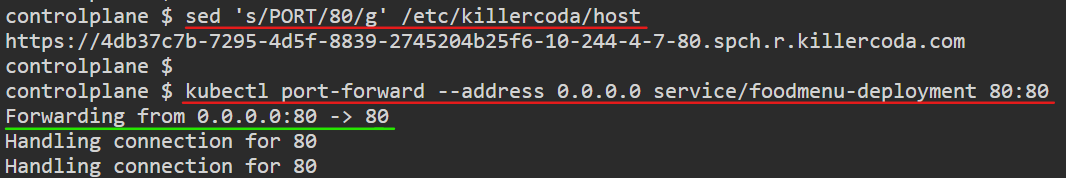
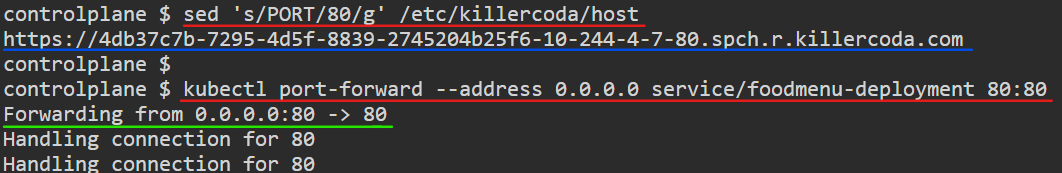
updated with emojis

Changed region(s): [[0.0, 0.4624, 0.9944, 1.0], [0.0, 0.0289, 0.9322, 0.4335]]

diff --git a/index.html b/index.html
@@ -72,14 +72,15 @@
         <img src="opentechx-logo.png" alt="Logo" style="height: 50px;">
 	</header>
 	
-    <h1>Kubernetes 101</h1>
+    <h1>Kubernetes 101 ☸</h1>
     <div>
-		<h2>About the Hands-on Lab</h2>
+		<br>
+		<h2>About the Hands-on Lab 🧑💻</h2>
 	    <p>In this hands-on lab workshop, we are going to deploy a static website into Kubernetes cluster.</p>
 		<p>The application is built using a HTML file and images. These files are packaged into a Docker image.</p>
-		<p>The Docker image is stored on the public <a href="https://hub.docker.com/repository/docker/ckr123/food-menu-website/general">Docker Hub registry</a></p>
+		<p>The Docker image is stored on the public <a href="https://hub.docker.com/repository/docker/ckr123/food-menu-website/general">Docker Hub registry</a> 🐋</p>
 		<br>
-		<p>Using kubectl commands, we will create below mentioned resources (marked in green square).</p>
+		<p>Using kubectl commands, we will create resources as per below image (marked in green square). 🟩</p>
 		<br>
 		
 		<div class="image-item">
@@ -90,10 +91,10 @@
 		<p><b>Open the terminal using below url</b></p>
 		<a href="https://killercoda.com/playgrounds/scenario/kubernetes">💻 Kubernetes Terminal</a></p>
 		<p>This is a playground terminal by Killercoda. We can use this for one hour in free account. Login to the terminal using your <b>Gmail account.</b></p>
-		<p><b>Note:</b> Please use only the right side terminal window.</p>
+		<p><b>⚠ Note:</b> Please use only the right side terminal window.</p>
 		<br>
 		
-		<h2>1. Create a Deployment</h2>
+		<h2>1. Create a Deployment 🚀</h2>
 		<p>Deployment as an instance of an application with it’s associated configuration.</p>
 		<p>The Deployment resource provides a way to describe, create, and update instances of your applications.</p>
 		<p>In simple terms, we can think of it as a blueprint of the application containers.</p>
@@ -102,7 +103,8 @@
 		<p>The syntax of kubectl command to create deployment is as below:</p>
 		<p><b>kubectl create deployment DEPLOYMENT_NAME --image=IMAGE_NAME:TAG --port=CONTAINER_PORT</b></p>
 		
-		<p>This command creates a deployment. The deployment will create a replicaset which in-turn will create the containers. The specified docker image will be pulled from the docker hub registry and container gets created using the docker image. The container gets exposed on the specified port.</p>
+		<p>This command creates a deployment. The deployment will create a replicaset which in-turn will create the containers.</p>
+		<p>The specified docker image will be pulled from the docker hub registry and container gets created using the docker image. The container gets exposed on the specified port.</p>
 		<br>
 		
         <p>Copy the below command by clicking on the copy icon.</p>
@@ -127,7 +129,7 @@
     </div>
 	<br>
 
-	<h2>2. Create a Service</h2>
+	<h2>2. Create a Service ⚙</h2>
 	<div>
 		<p>"Service" is an abstract way to expose an application over the network. These applications will be running on a set of Pods.</p>
 		<p> It provides a stable endpoint (IP address and port) to interact with the application, abstracting away the complexity of the dynamic changes in the underlying infrastructure.</p>
@@ -157,7 +159,7 @@
 	<br>
 
 
-	<h2>3. Access the application</h2>
+	<h2>3. Access the application 🌐</h2>
 	<div>
 		<p>To access the application we need the IP address of the terminal node.</p>
 
@@ -169,19 +171,20 @@
 		
 		<p>Let's use the method of port-forward to access the application.</p>
 		
-		<p>The <b>kubectl port-forward</b> command is used in Kubernetes to create a network tunnel between your local machine and a pod running in the Kubernetes cluster. This command allows you to access resources inside the cluster as if they were running locally on your machine.</p>
+		<p>The <b>kubectl port-forward</b> command is used in Kubernetes to create a network tunnel between your local machine and a pod running in the Kubernetes cluster.</p>
+		<p>This command allows you to access resources inside the cluster as if they were running locally on your machine.</p>
+		<br>
 
 		<p>The syntax of the port-forward command is as below:</p>
 		<p><b>kubectl port-forward --address 0.0.0.0 service/SERVICE_NAME LOCAL_PORT:SERVICE_PORT</b></p>
-		
-		<p>This command creates a service. The service is mapped to the deployment. This way it knows which are the pods running as part of the deployment.</p>
 		
 		<p><br>Execute below command to port-forward the service.</p>
 		<code id="command7">kubectl port-forward --address 0.0.0.0 service/foodmenu-deployment 80:80</code>
         <span class="copy-icon" onclick="copyToClipboard('command7')">📋</span>
 		<br>
 		
-		<p>Now, open the url in the browser to see the application webpage.</p>
+		<p>Now, click on the url in the browser to see the application webpage.</p>
+		<p>⚠ The url will be like the one highlighted with blue line. Reference as shown in the below image.</p>
 
 		<p><br><u>You should see output as below:</u></p>
     </div>
@@ -192,7 +195,7 @@
 	<br>
 
 
-	<h2>4. Scale up the application</h2>
+	<h2>4. Scale up the application 📈</h2>
 	<div>
 		<p>By default, the deployment creates one replica of the application. This means that only one pod is created for the application.</p>
 		<p>So if this pod crashes then the application page will not be accessible.</p>
@@ -222,7 +225,7 @@
 	<br>
 
 	
-	<h2>5. Scale down the application</h2>
+	<h2>5. Scale down the application 📉</h2>
 	<div>
 		<p>By default, the deployment creates one replica of the application. This means that only one pod is created for the application.</p>
 		<p>So if this pod crashes then the application page will not be accessible.</p>
@@ -252,7 +255,7 @@
 	<br>
 
 
-	<h2>6. See cluster wide events</h2>
+	<h2>6. See cluster wide events 🔎</h2>
 	<div>
 		<p>By default, the deployment creates one replica of the application. This means that only one pod is created for the application.</p>
 		
@@ -265,7 +268,7 @@
 	<br>
 
 	
-	<h2>7. Deploy new version of the application</h2>
+	<h2>7. Deploy new version of the application 📦 🐋</h2>
 	<div>
 		<p>Let's deploy version 2 of the application.</p>
 
@@ -289,7 +292,7 @@
     </div>
 	<br>
 
-	<h2>8. Remove the application</h2>
+	<h2>8. Remove the application 🗑</h2>
 	<div>
 		<p>Let's clean-up the deployment and service on the cluster.</p>
 		
